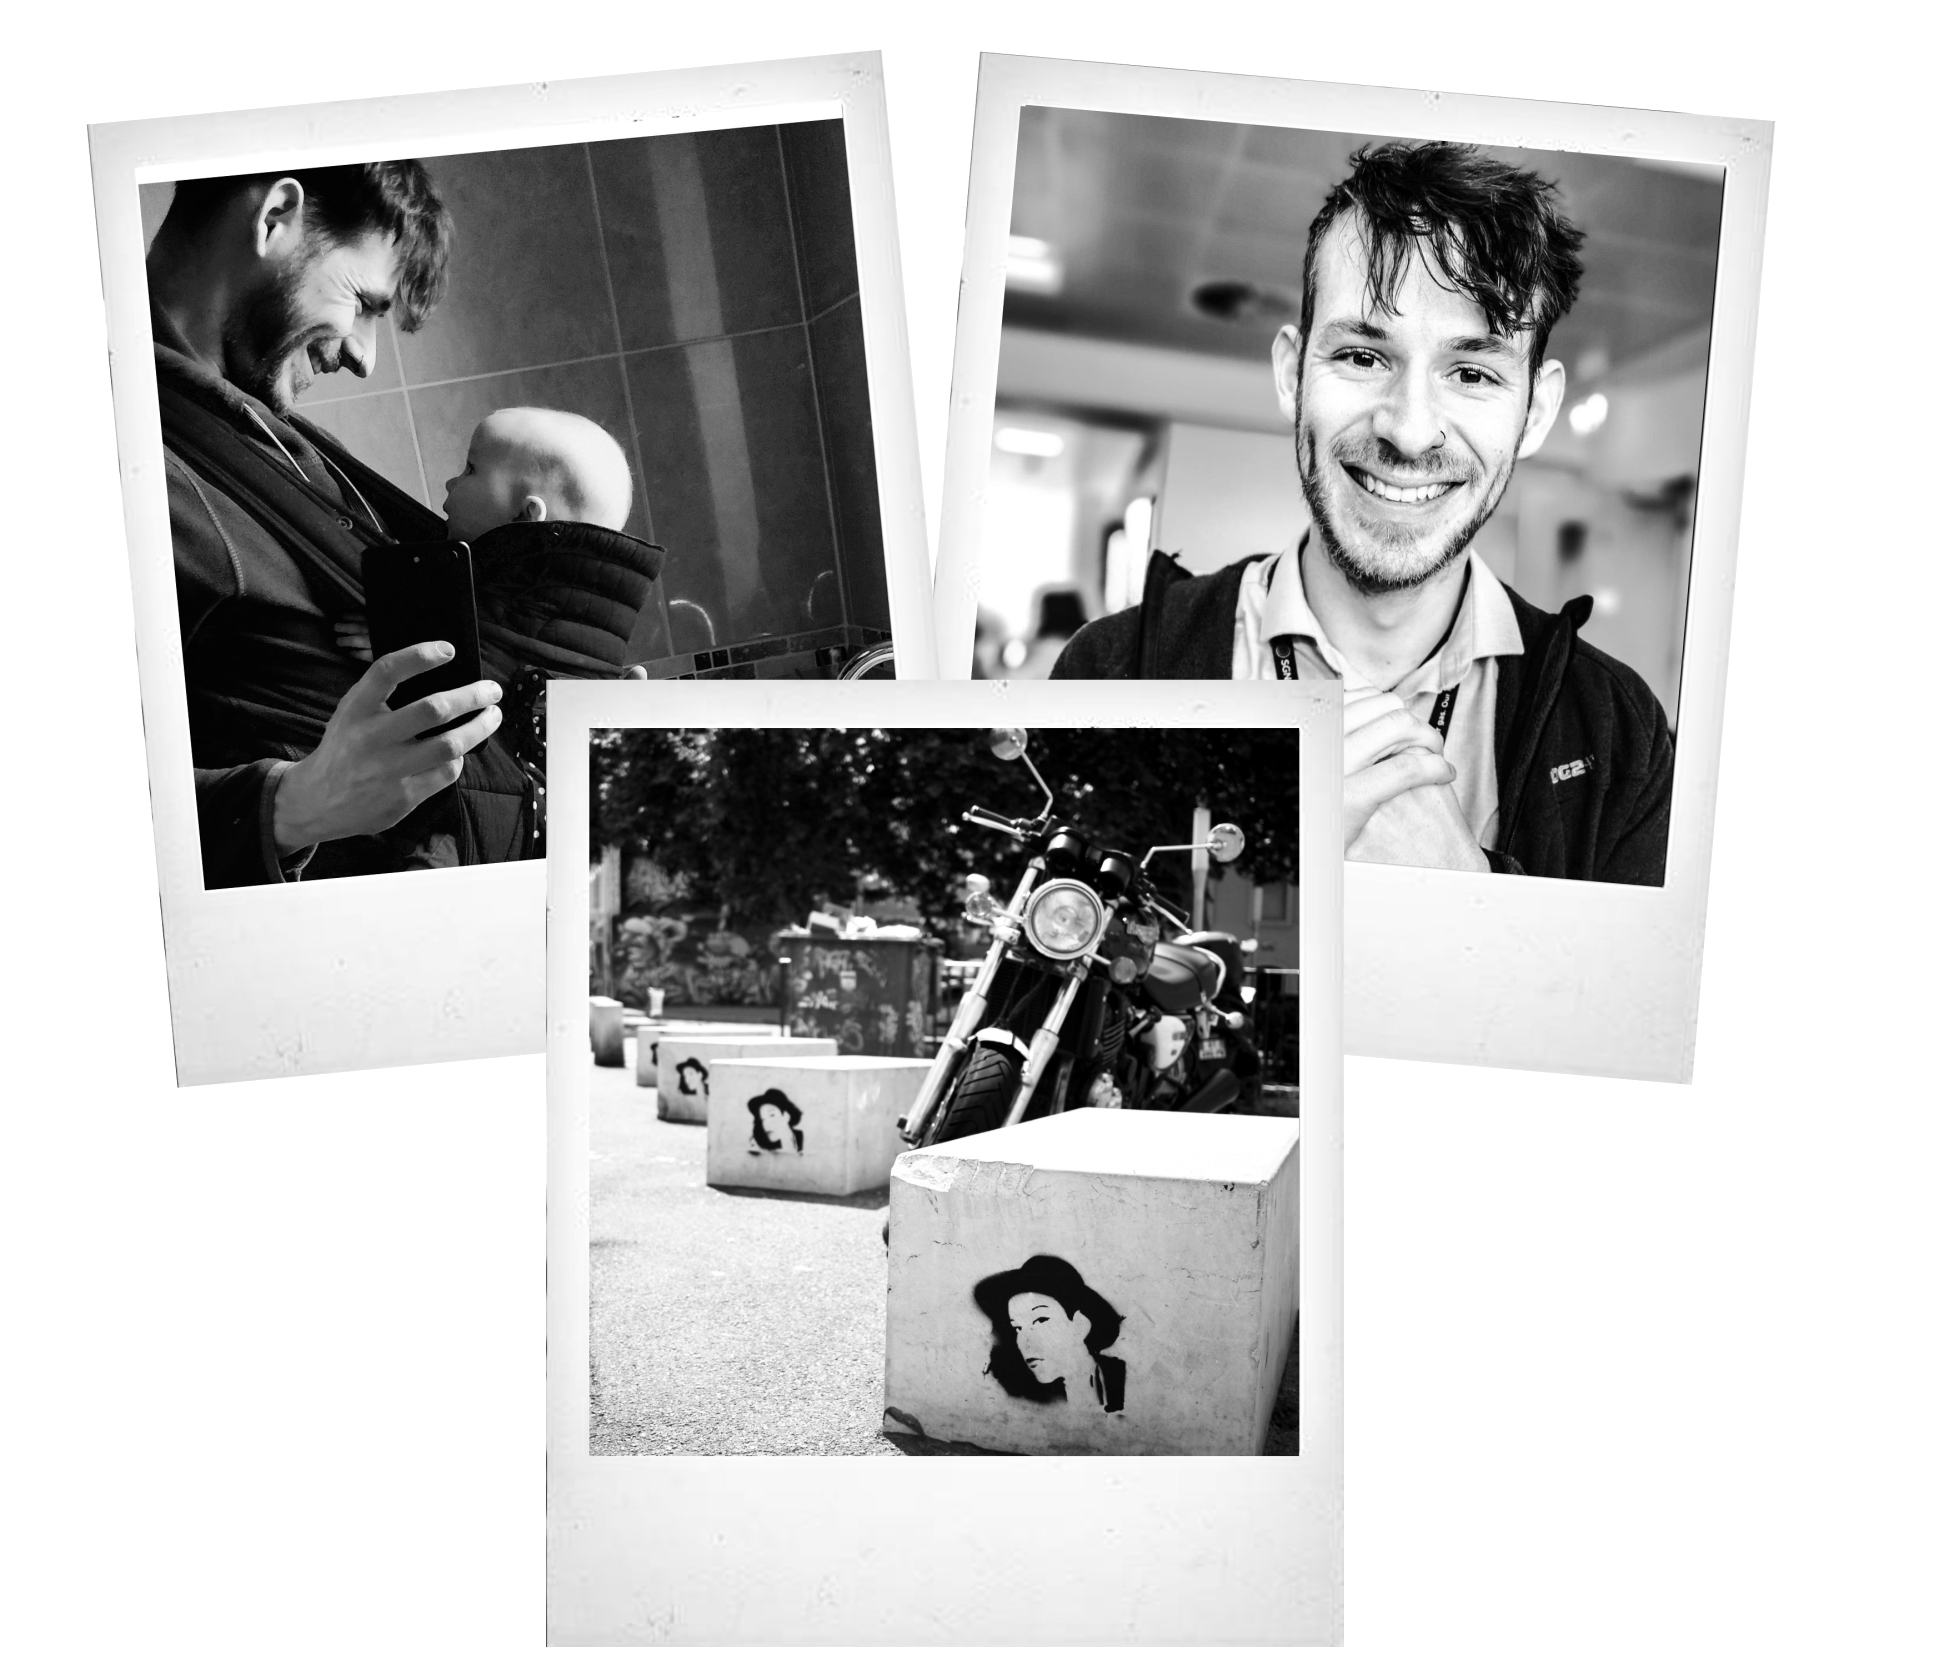
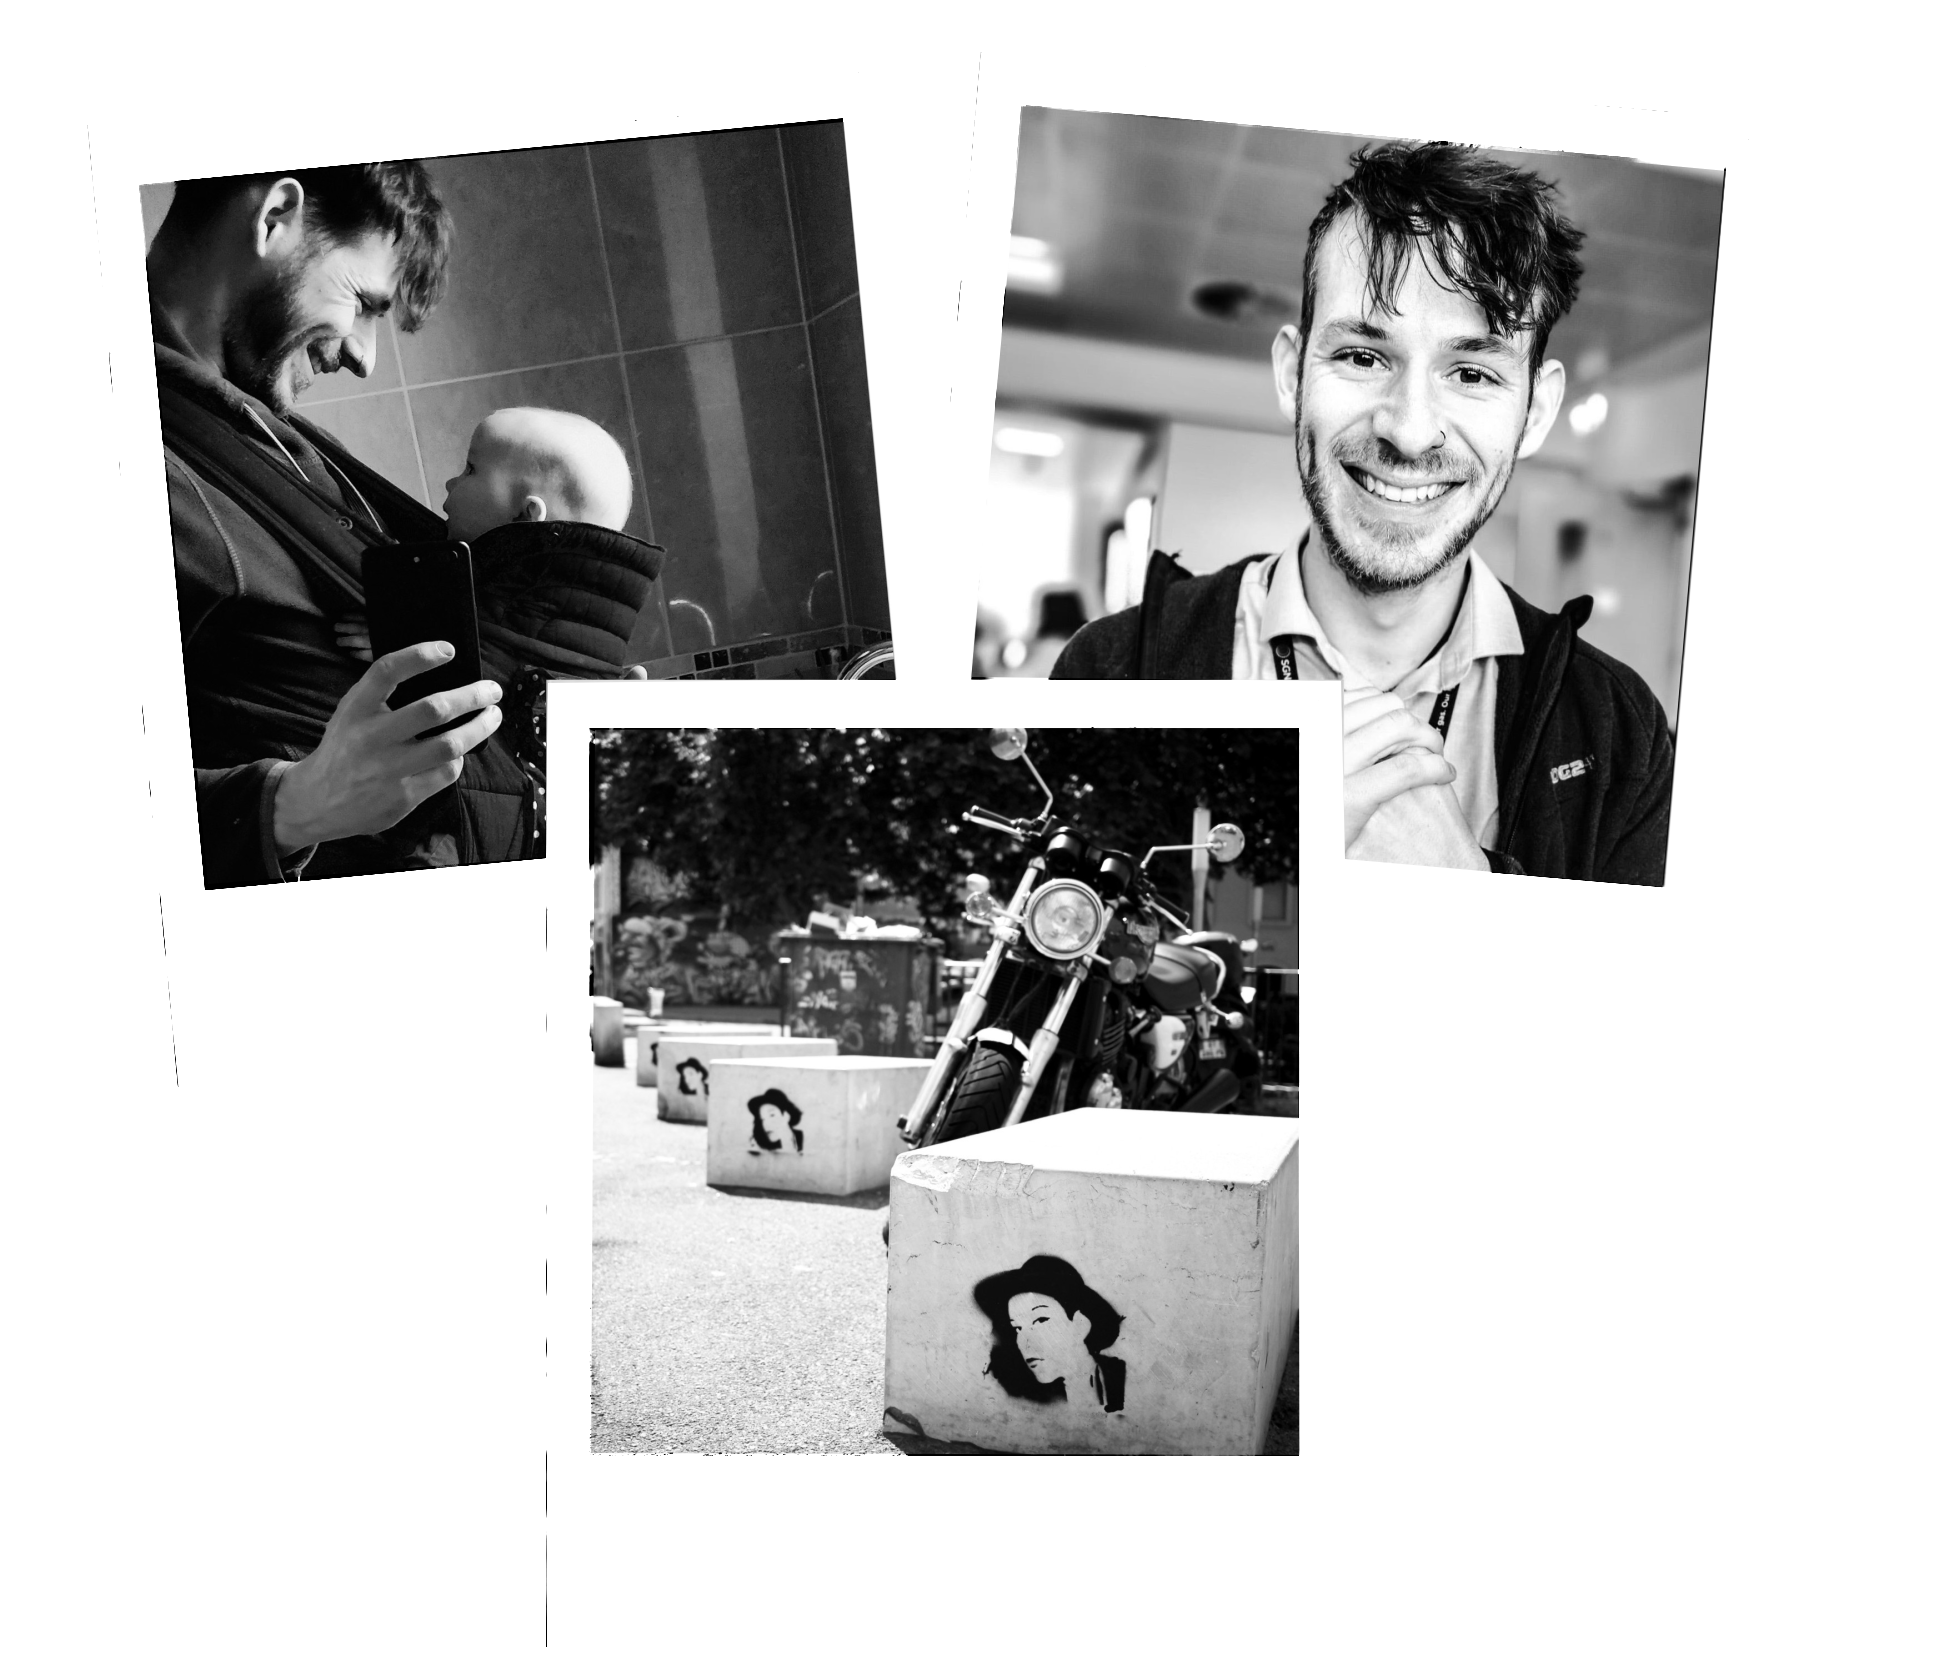
Add Dark Mode

diff --git a/styles/main-style.css b/styles/main-style.css
@@ -1,15 +1,77 @@
+:root {
+  --bg: white;
+  --landing-bg: linear-gradient(#60c9da, #08a4bd);
+  --main-bg: linear-gradient(#08a4bd, #60c9da);
+  --text: #121212;
+}
+html[data-theme="dark"] {
+  --bg: #121212;
+  --landing-bg: linear-gradient(black, #0c6977);
+  --main-bg: linear-gradient(#0c6977, black);
+  --text: white;
+}
+
 @media (max-width: 3000px) {
   * {
     margin: 0;
     font-family: "Avenir", Helvetica, Arial, sans-serif;
+    color: var(--text);
   }
 
   #main {
     height: 100vh;
     width: 100vw;
-    background-image: linear-gradient(#08a4bd, #94dce7);
+    background-image: var(--main-bg);
     position: relative;
     padding-top: 50px;
+  }
+
+  .toggle-container {
+    display: flex;
+    align-items: center;
+    position: absolute;
+    margin-top: 1%;
+  }
+
+  input {
+    height: 0;
+    width: 0;
+    visibility: hidden;
+  }
+  label {
+    cursor: pointer;
+    text-indent: -9999px;
+    width: 52px;
+    height: 27px;
+    background: #08a4bd;
+    float: right;
+    border-radius: 100px;
+    position: relative;
+  }
+  label:after {
+    content: "";
+    position: absolute;
+    top: 3px;
+    left: 3px;
+    width: 20px;
+    height: 20px;
+    background: white;
+    border-radius: 90px;
+    transition: 0.3s;
+  }
+  input:checked + label:after {
+    left: calc(100% - 5px);
+    transform: translateX(-100%);
+  }
+  label:active:after {
+    width: 45px;
+  }
+  html.transition,
+  html.transition *,
+  html.transition *:before,
+  html.transition *:after {
+    transition: all 750ms !important;
+    transition-delay: 0 !important;
   }
 
   .main-grid {
@@ -18,7 +80,7 @@
     display: grid;
     grid-template-columns: 3fr 2fr;
     grid-template-rows: repeat(9, 1fr);
-    background-color: white;
+    background-color: var(--bg);
     border-radius: 10px;
     margin: auto;
     box-shadow: 10px 10px 10px black;
@@ -123,6 +185,7 @@
   button img {
     height: 30px;
     width: 30px;
+    background-color: white;
   }
 
   p {

diff --git a/js/js.js b/js/js.js
@@ -3,6 +3,10 @@ document.addEventListener("DOMContentLoaded", () => {
   var intervalID = window.setInterval(fadeIn, 1);
   var intervalID = window.setInterval(fadeOut, 10);
 
+  //Dark Mode
+  const checkbox = document.querySelector("input[name=theme");
+  checkbox.addEventListener("change", handleToggle);
+
   //About Me
   const about = document.querySelector(".about-me");
   about.addEventListener("click", handleAboutClick);
@@ -73,6 +77,26 @@ const fadeOut = function () {
   square.style.opacity = ".7";
   square.style.transitionDuration = "2s";
 };
+
+var handleToggle = function () {
+  if (this.checked) {
+    trans();
+    document.documentElement.setAttribute("data-theme", "dark");
+  } else {
+    trans();
+    document.documentElement.setAttribute("data-theme", "light");
+  }
+};
+let trans = () => {
+  document.documentElement.classList.add("transition");
+  window.setTimeout(() => {
+    document.documentElement.classList.remove("transition");
+  }, 1000);
+};
+
+// document.body.style.setProperty("--bg", "#121212");
+// document.body.style.setProperty("--text", "white");
+// document.body.style.setProperty("--landing-bg", "black");
 
 const media = window.matchMedia("(max-width: 1000px)");
 //If mobile

diff --git a/index.html b/index.html
@@ -20,19 +20,22 @@
   </head>
   <body>
     <header id="welcome">
-      <h1 class="landing-page">Iain McClafferty,<br>Junior Software Developer</h1>
+      <h1 class="landing-page">Iain McClafferty,<br>Junior Software Developer</h1><br>
     </header>
     <header id="welcome-mask">
     </header>
 
     <article id="main">
       <div class="main-grid">
+        <div class="toggle-container">
+          <p>Light</p><input id="switch" type="checkbox" name="theme"></input><label for="switch">Toggle</label><p>Dark</p>
+        </div>
         <h1 class="about-me heading">About Me</h1>
         <h1 class="projects heading">Projects</h1>
         <h1 class="languages heading">Languages</h1>
         <h1 class="contact heading">Contact</h1>
         <div class="polaroid-container">
-          <img class="polaroids" src="image/polaroids2.png" alt="Polaroid photographs"/>
+          <img class="polaroids" src="image/polaroids-border-thick.png" alt="Polaroid photographs"/>
         </div>
       </div>
       <section id="about">

diff --git a/styles/contact.css b/styles/contact.css
@@ -1,6 +1,6 @@
 #contact {
   opacity: 0;
-  background-color: white;
+  background-color: var(--bg);
   height: 5%;
   width: 5%;
   z-index: -1;
@@ -17,7 +17,7 @@
 }
 #contact-open {
   opacity: 1;
-  background-color: white;
+  background-color: var(--bg);
   height: auto;
   width: 55vw;
   z-index: 10;
@@ -31,9 +31,10 @@
   font-size: 1.2rem;
   transition-duration: 1s;
 }
+
 #contact-open-mobile {
   opacity: 1;
-  background-color: white;
+  background-color: var(--bg);
   height: auto;
   width: 95vw;
   z-index: 10;
@@ -79,4 +80,9 @@
 
 .contact-details a {
   text-decoration: underline;
+  color: var(--text);
+}
+.contact-details a:visited {
+  text-decoration: underline;
+  color: var(--text);
 }

diff --git a/styles/about-me-style.css b/styles/about-me-style.css
@@ -1,7 +1,7 @@
 @media (max-width: 3000px) {
   #about {
     opacity: 0;
-    background-color: white;
+    background-color: var(--bg);
     height: 5%;
     width: 5%;
     z-index: -1;
@@ -13,7 +13,7 @@
   }
 
   #about-open {
-    background-color: white;
+    background-color: var(--bg);
     z-index: 10;
     opacity: 1;
     transition-duration: 1s;
@@ -51,7 +51,7 @@
     position: absolute;
     top: 20%;
     margin-left: 1%;
-    background-color: white;
+    background-color: var(--bg);
     border-radius: 10px;
     border: solid black 1px;
     box-shadow: 5px 5px 5px black;

diff --git a/styles/languages-style.css b/styles/languages-style.css
@@ -1,6 +1,6 @@
 #languages {
   opacity: 0;
-  background-color: white;
+  background-color: var(--bg);
   height: 5%;
   width: 5%;
   z-index: -1;
@@ -15,7 +15,7 @@
   transition-duration: 1s;
 }
 #languages-open {
-  background-color: white;
+  background-color: var(--bg);
   border-radius: 10px;
   border: solid black 1px;
   box-shadow: 5px 5px 5px black;
@@ -29,8 +29,9 @@
   top: 10%;
   left: 10%;
 }
+
 #languages-open-mobile {
-  background-color: white;
+  background-color: var(--bg);
   border-radius: 10px;
   border: solid black 1px;
   box-shadow: 5px 5px 5px black;

diff --git a/styles/projects-style.css b/styles/projects-style.css
@@ -1,6 +1,6 @@
 #projects {
   opacity: 0;
-  background-color: white;
+  background-color: var(--bg);
   height: 5%;
   width: 5%;
   z-index: -1;
@@ -16,7 +16,7 @@
 }
 #projects-open {
   opacity: 1;
-  background-color: white;
+  background-color: var(--bg);
   height: 80vh;
   width: 60vw;
   z-index: 10;
@@ -30,9 +30,10 @@
   overflow: hidden;
   transition-duration: 1s;
 }
+
 #projects-open-mobile {
   opacity: 1;
-  background-color: white;
+  background-color: var(--bg);
   height: auto;
   width: 95vw;
   z-index: 10;

diff --git a/styles/landing-page-style.css b/styles/landing-page-style.css
@@ -1,7 +1,7 @@
 #welcome {
   height: 100vh;
   width: 100vw;
-  background-image: linear-gradient(#94dce7, #08a4bd);
+  background-image: var(--landing-bg);
 }
 
 #welcome-mask {
